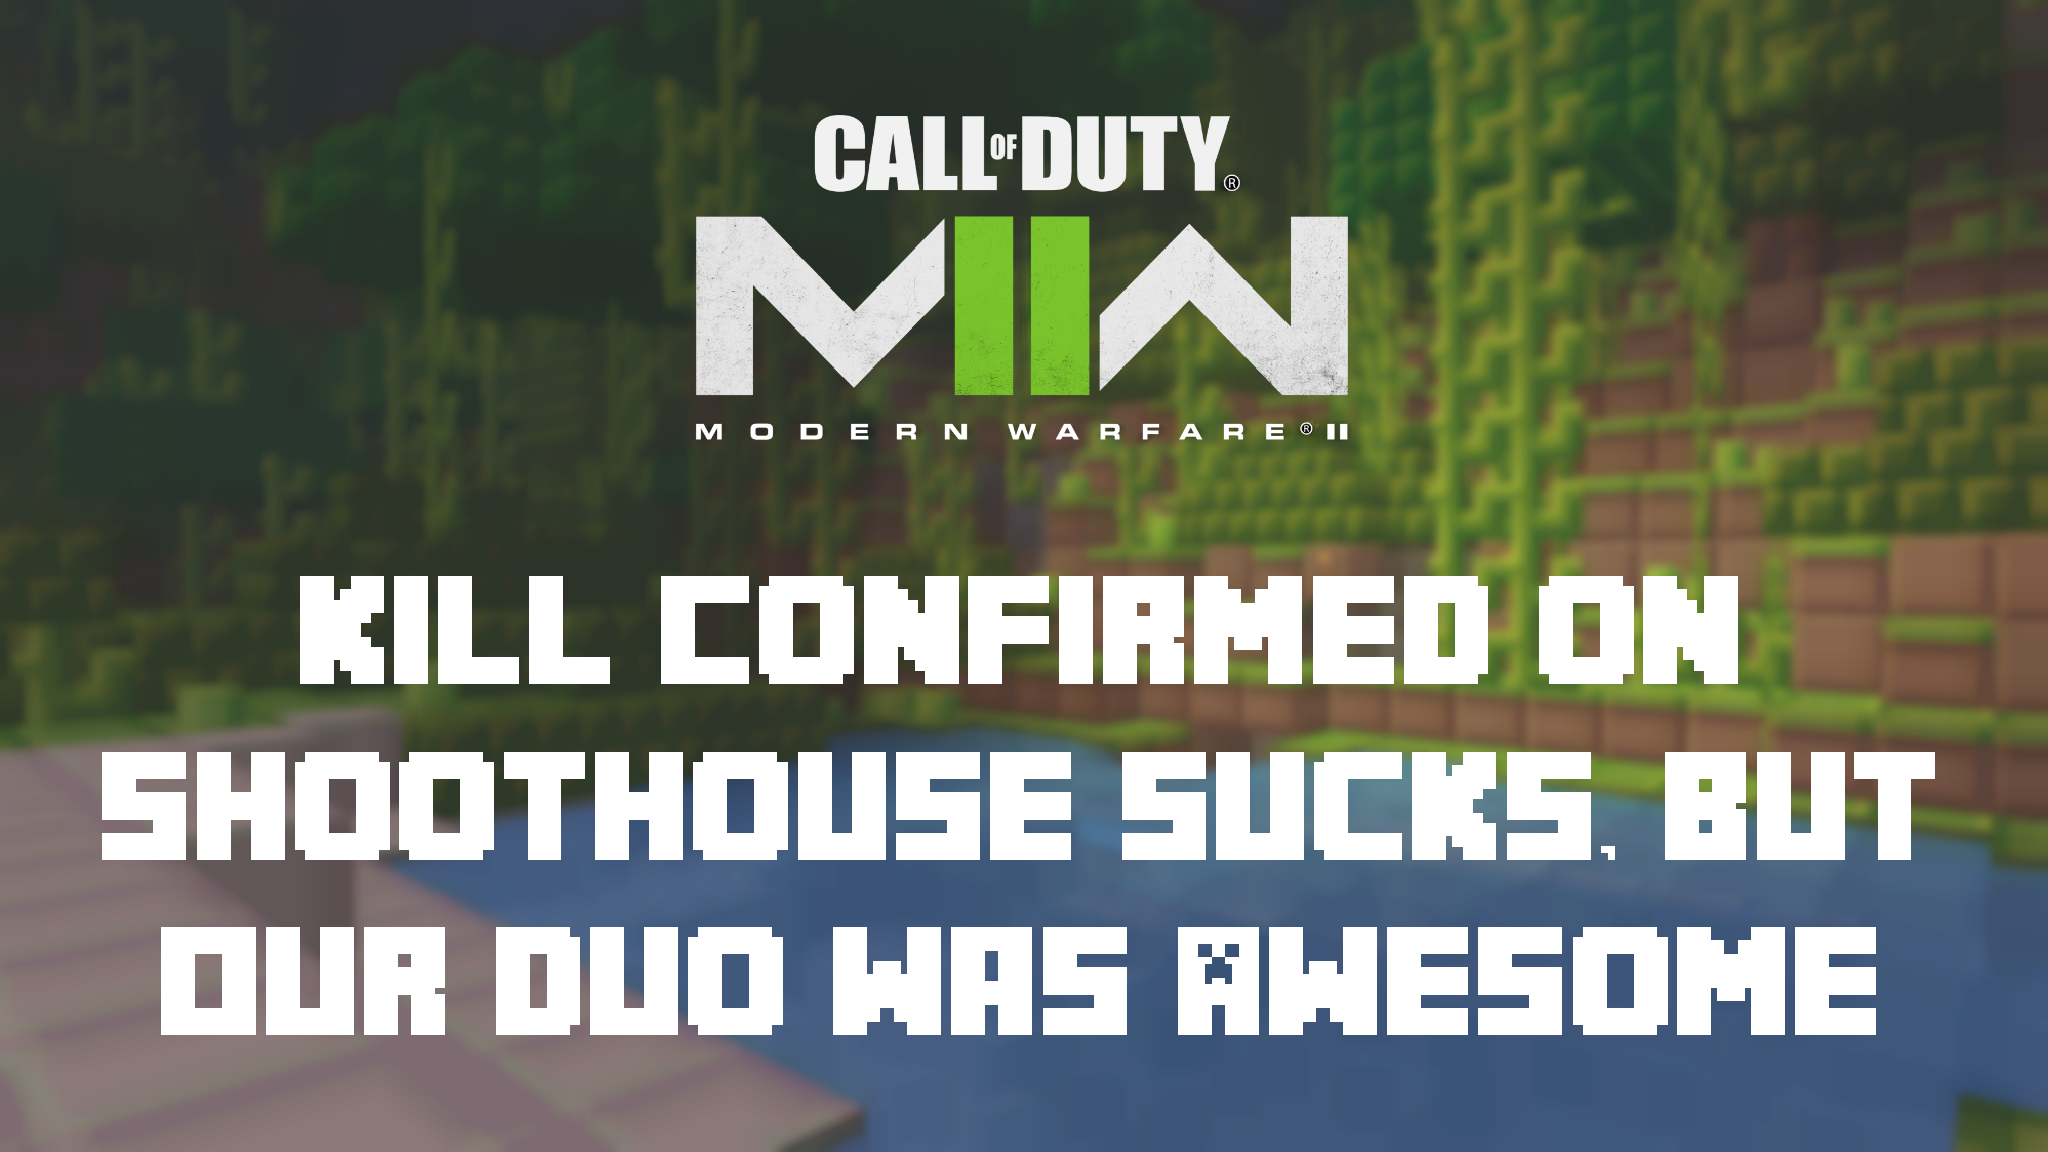
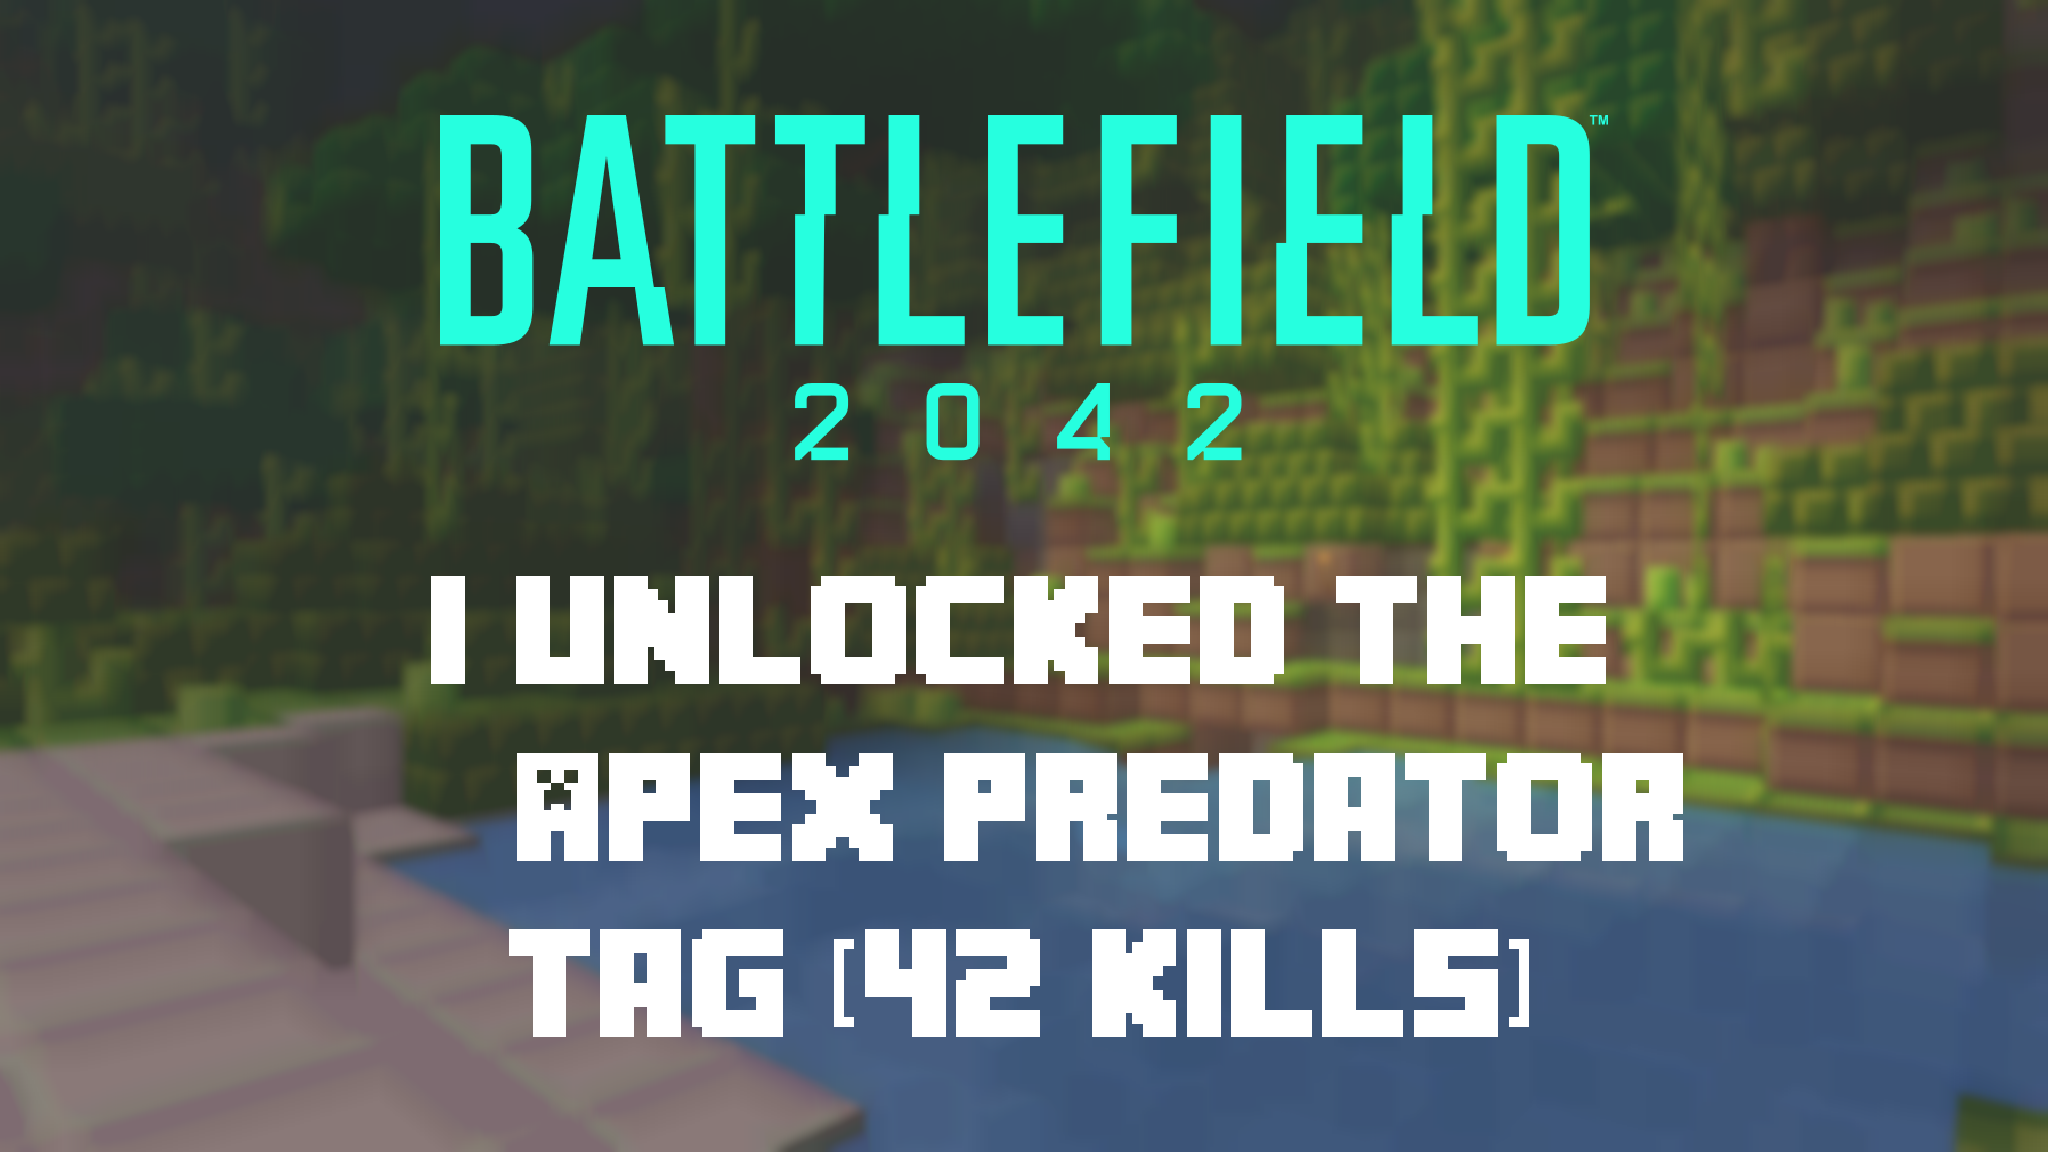
Added Battlefield 2042
Note: Alignment on the last thumbnail is accurate, I'm editing it

diff --git a/README.md b/README.md
@@ -32,6 +32,7 @@ This project uses [SkiaSharp](https://github.com/mono/SkiaSharp) for the graphic
 - Overwatch logo: OW Logo White (cropped) from [Blizzard Press Center](https://blizzard.gamespress.com/Overwatch#?tab=logos)
 - Overwatch 2 logo: Overwatch2 Secondary DKBKGD (cropped) from [Blizzard Press Center](https://blizzard.gamespress.com/overwatch-2#?tab=logos-3)
 - Modern Warfare 2 logo: cod-mw2-logo from [Call of Duty MW2 Homepage](https://www.callofduty.com/modernwarfare2)
+- Battlefield 2042 logo: Battlefield_2042_logo from [Wikimedia Commons](https://commons.wikimedia.org/wiki/File:Battlefield_2042_logo.svg)
 
 ## Additional:
 
